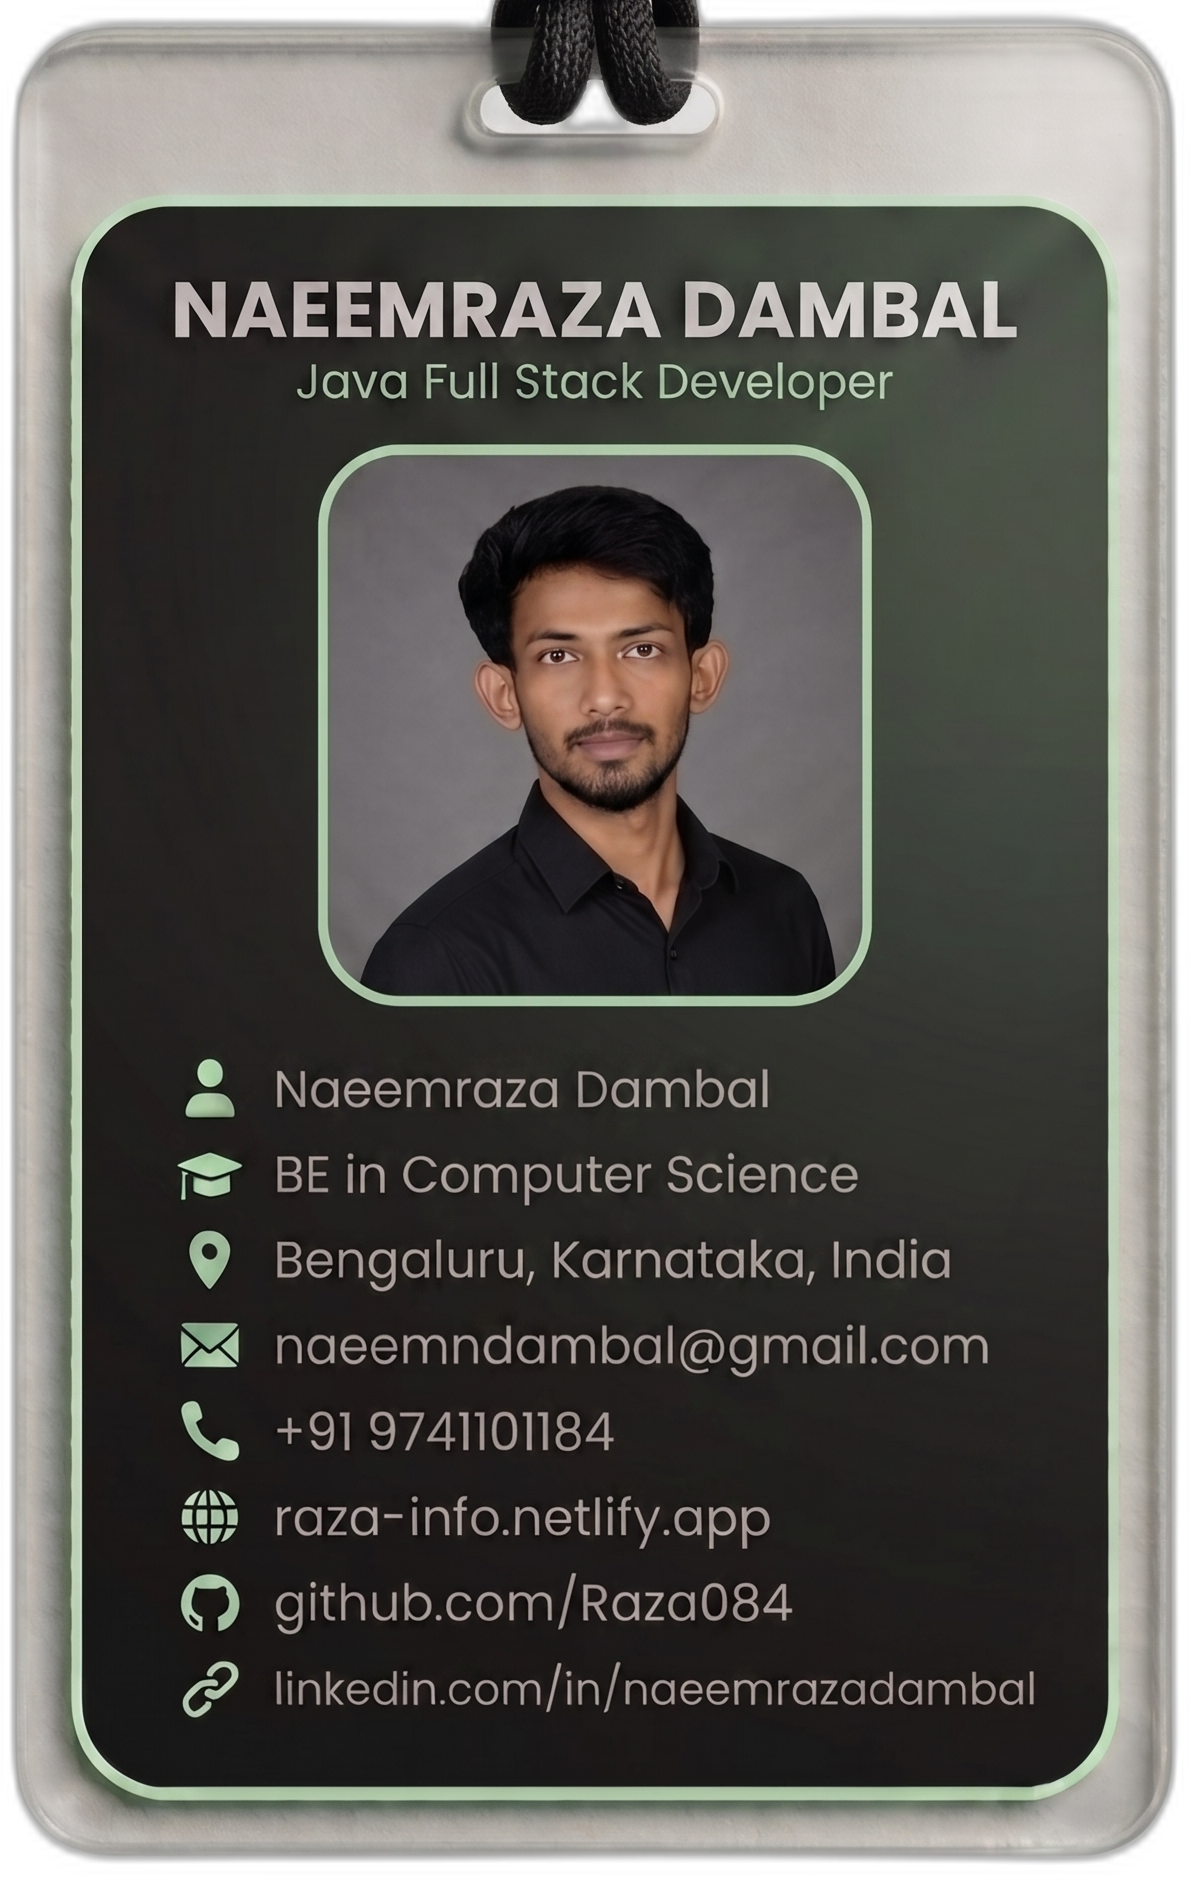
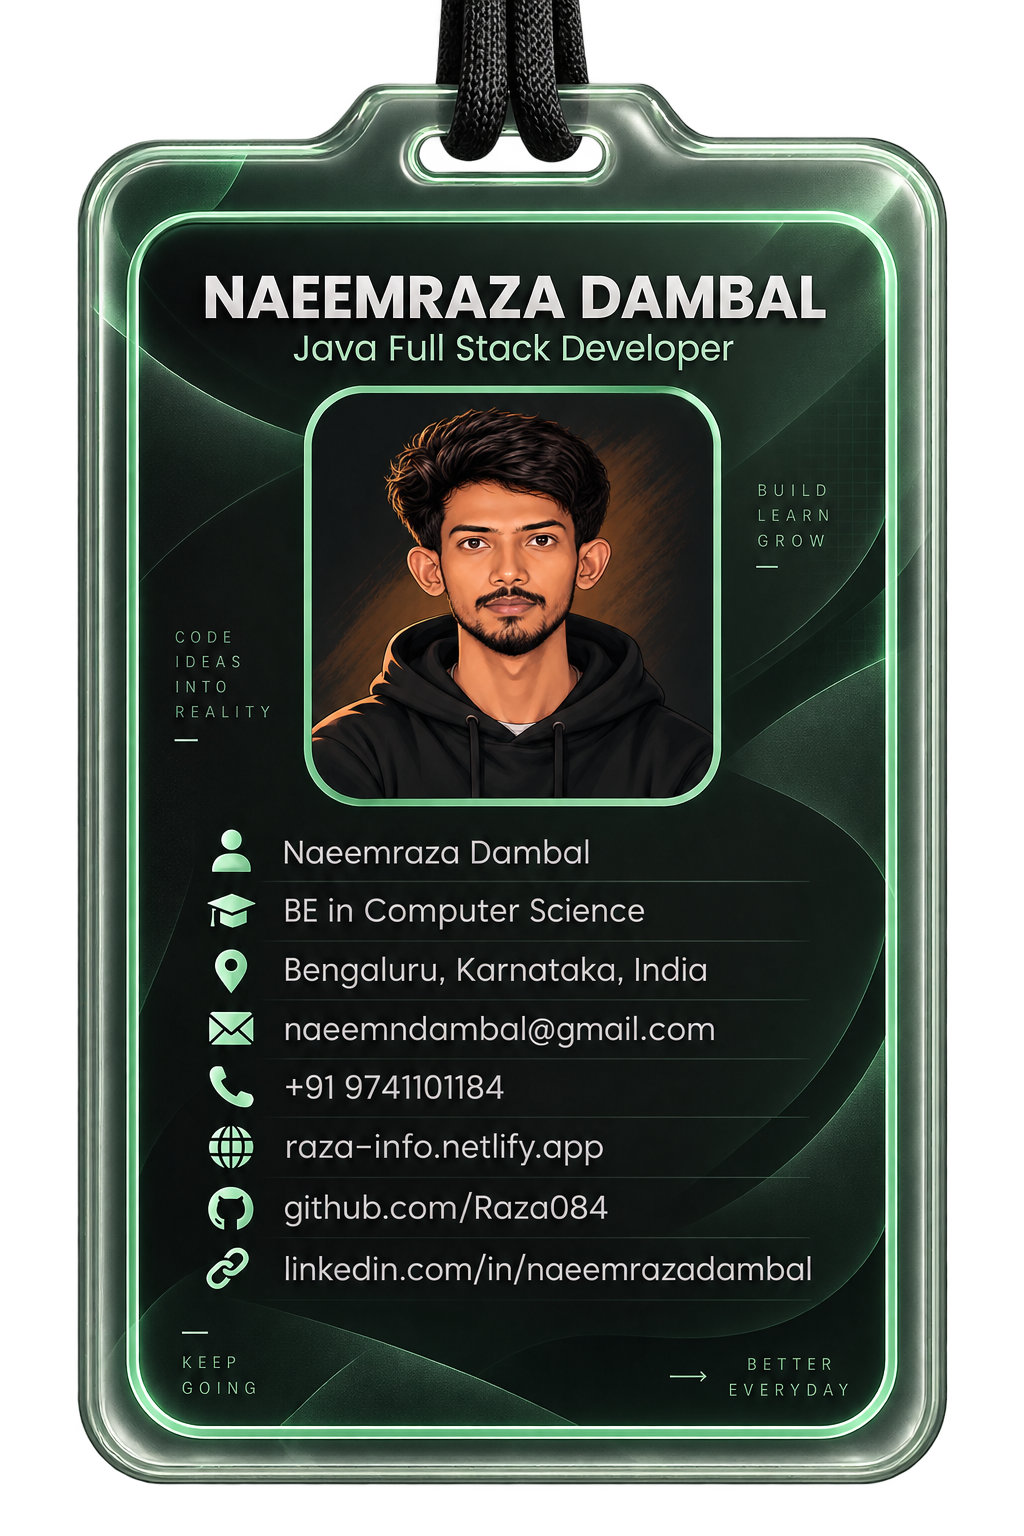
Updated portfolio design and content

diff --git a/css/style.css b/css/style.css
@@ -1,32 +1,34 @@
-@import url('https://fonts.googleapis.com/css2?family=Inter:wght@400;500;600;700&family=Sora:wght@400;500;600;700;800&display=swap');
+@import url("https://fonts.googleapis.com/css2?family=Inter:wght@400;500;600;700&family=Sora:wght@400;500;600;700;800&display=swap");
 
 :root {
   /* Background Colors */
-  --bg-deep: #0A0A0A;
+  --bg-deep: #0a0a0a;
   --bg-charcoal: #111111;
   --bg-section: #171717;
-  --bg-slate: #1C1C1C;
+  --bg-slate: #1c1c1c;
   --bg-card: #131313;
 
   /* Primary Neon Accent Colors */
-  --accent-mint: #4FFFB0;
-  --accent-teal: #39E6C1;
-  --accent-aqua: #5CFFE7;
+  --accent-mint: #4fffb0;
+  --accent-teal: #39e6c1;
+  --accent-aqua: #5cffe7;
 
   /* Borders & Shadows */
   --border-mint: rgba(79, 255, 176, 0.15);
   --border-mint-hover: rgba(79, 255, 176, 0.45);
-  --shadow-mint: 0 0 15px rgba(79, 255, 176, 0.15), 0 0 30px rgba(79, 255, 176, 0.08);
-  --shadow-mint-strong: 0 0 25px rgba(79, 255, 176, 0.35), 0 0 50px rgba(79, 255, 176, 0.18);
+  --shadow-mint:
+    0 0 15px rgba(79, 255, 176, 0.15), 0 0 30px rgba(79, 255, 176, 0.08);
+  --shadow-mint-strong:
+    0 0 25px rgba(79, 255, 176, 0.35), 0 0 50px rgba(79, 255, 176, 0.18);
 
   /* Typography Design Tokens */
-  --font-headings: 'Sora', 'Segoe UI', sans-serif;
-  --font-body: 'Inter', -apple-system, sans-serif;
-  --text-body: #B8B8B8;
+  --font-headings: "Sora", "Segoe UI", sans-serif;
+  --font-body: "Inter", -apple-system, sans-serif;
+  --text-body: #b8b8b8;
 
   /* Section Heading Accent */
-  --accent-yellow: #FFFF8D;
-  --heading-gradient: linear-gradient(110deg, #FFFF8D 40%, #4FFFB0 100%);
+  --accent-yellow: #ffff8d;
+  --heading-gradient: linear-gradient(110deg, #ffff8d 40%, #4fffb0 100%);
 }
 
 /* ================= GLOBAL ================= */
@@ -46,7 +48,7 @@ body {
 
 /* Subtle grain texture — pure texture, no colour tint (6-7% visible) */
 body::before {
-  content: '';
+  content: "";
   position: fixed;
   inset: 0;
   opacity: 0.065;
@@ -62,12 +64,20 @@ html {
   scroll-behavior: smooth;
 }
 
-h1, h2, h3, h4, h5, h6 {
+h1,
+h2,
+h3,
+h4,
+h5,
+h6 {
   font-family: var(--font-headings);
   letter-spacing: -0.02em;
 }
 
-input, select, textarea, button {
+input,
+select,
+textarea,
+button {
   font-family: var(--font-body);
 }
 
@@ -137,13 +147,13 @@ input, select, textarea, button {
 
 /* Subtle background grid pattern */
 .hero::after {
-  content: '';
+  content: "";
   position: absolute;
   top: 0;
   left: 0;
   right: 0;
   bottom: 0;
-  background-image: 
+  background-image:
     linear-gradient(to right, rgba(255, 255, 255, 0.03) 1px, transparent 1px),
     linear-gradient(to bottom, rgba(255, 255, 255, 0.03) 1px, transparent 1px);
   background-size: 50px 50px;
@@ -161,7 +171,12 @@ input, select, textarea, button {
   font-weight: 800;
   font-family: var(--font-headings);
   letter-spacing: -0.03em;
-  background: linear-gradient(135deg, #ffffff 30%, var(--accent-mint) 70%, var(--accent-teal) 100%);
+  background: linear-gradient(
+    135deg,
+    #ffffff 30%,
+    var(--accent-mint) 70%,
+    var(--accent-teal) 100%
+  );
   -webkit-background-clip: text;
   -webkit-text-fill-color: transparent;
   background-clip: text;
@@ -374,7 +389,7 @@ input, select, textarea, button {
 /* ================= BUTTONS ================= */
 .download-btn {
   background: linear-gradient(135deg, var(--accent-mint), var(--accent-teal));
-  color: #0A0A0A;
+  color: #0a0a0a;
   padding: 12px 24px;
   border-radius: 30px;
   text-decoration: none;
@@ -536,11 +551,7 @@ input, select, textarea, button {
   flex: 2;
   min-width: 320px;
   max-width: 1080px;
-  background: linear-gradient(
-    135deg,
-    var(--bg-charcoal),
-    var(--bg-deep)
-  );
+  background: linear-gradient(135deg, var(--bg-charcoal), var(--bg-deep));
   padding: 40px;
   border-radius: 20px;
   border: 1px solid var(--border-mint);
@@ -552,7 +563,7 @@ input, select, textarea, button {
 .about-content h2 {
   font-size: 40px;
   margin-bottom: 20px;
-  background: linear-gradient(110deg, #FFFF8D 40%, #4FFFB0 100%);
+  background: linear-gradient(110deg, #ffff8d 40%, #4fffb0 100%);
   -webkit-background-clip: text;
   -webkit-text-fill-color: transparent;
   background-clip: text;
@@ -625,12 +636,9 @@ input, select, textarea, button {
   background: var(--bg-section);
 }
 
-#projects, #myjourney {
-  background: linear-gradient(
-    135deg,
-    var(--bg-charcoal),
-    var(--bg-deep)
-  );
+#projects,
+#myjourney {
+  background: linear-gradient(135deg, var(--bg-charcoal), var(--bg-deep));
   border: 1px solid var(--border-mint);
   box-shadow: 0 15px 35px rgba(0, 0, 0, 0.4);
   backdrop-filter: blur(10px);
@@ -661,7 +669,7 @@ input, select, textarea, button {
   );
   border-radius: 20px;
   border: 1px solid var(--border-mint);
-  box-shadow: 0 0 20px rgba(79, 255, 176, 0.10);
+  box-shadow: 0 0 20px rgba(79, 255, 176, 0.1);
 }
 
 #skills {
@@ -686,7 +694,7 @@ input, select, textarea, button {
   width: fit-content;
   margin: 0 auto 25px;
   font-size: 22px;
-  background: linear-gradient(110deg, #cbb3f5 50%, #4FFFB0 100%);
+  background: linear-gradient(110deg, #cbb3f5 50%, #4fffb0 100%);
   -webkit-background-clip: text;
   -webkit-text-fill-color: transparent;
   background-clip: text;
@@ -722,7 +730,7 @@ input, select, textarea, button {
 .skills-box-title {
   text-align: center;
   font-size: 22px;
-  background: linear-gradient(110deg, #cbb3f5 50%, #4FFFB0 100%);
+  background: linear-gradient(110deg, #cbb3f5 50%, #4fffb0 100%);
   -webkit-background-clip: text;
   -webkit-text-fill-color: transparent;
   background-clip: text;
@@ -879,7 +887,7 @@ input, select, textarea, button {
   font-family: var(--font-headings);
   font-weight: 700;
   letter-spacing: -0.01em;
-  background: linear-gradient(110deg, #cbb3f5 50%, #4FFFB0 100%);
+  background: linear-gradient(110deg, #cbb3f5 50%, #4fffb0 100%);
   -webkit-background-clip: text;
   -webkit-text-fill-color: transparent;
   background-clip: text;
@@ -939,7 +947,7 @@ button {
   border-radius: 20px;
   border: none;
   background: linear-gradient(135deg, var(--accent-mint), var(--accent-teal));
-  color: #0A0A0A;
+  color: #0a0a0a;
   font-weight: 600;
   cursor: pointer;
 }
@@ -1017,7 +1025,7 @@ button {
   margin-top: 10px;
   padding: 10px 18px;
   background: linear-gradient(135deg, var(--accent-mint), var(--accent-teal));
-  color: #0A0A0A;
+  color: #0a0a0a;
   border-radius: 25px;
   text-decoration: none;
   font-size: 14px;
@@ -1155,7 +1163,7 @@ button {
   width: fit-content;
   font-size: 24px;
   margin-bottom: 30px;
-  background: linear-gradient(110deg, #cbb3f5 50%, #4FFFB0 100%);
+  background: linear-gradient(110deg, #cbb3f5 50%, #4fffb0 100%);
   -webkit-background-clip: text;
   -webkit-text-fill-color: transparent;
   background-clip: text;
@@ -1172,11 +1180,7 @@ button {
 
 /* ================= CONTACT ================= */
 #contact {
-  background: linear-gradient(
-    135deg,
-    var(--bg-charcoal),
-    var(--bg-deep)
-  );
+  background: linear-gradient(135deg, var(--bg-charcoal), var(--bg-deep));
   border: 1px solid var(--border-mint);
   box-shadow: 0 15px 35px rgba(0, 0, 0, 0.4);
   backdrop-filter: blur(10px);
@@ -1211,7 +1215,7 @@ button {
 
 .contact-info h3 {
   width: fit-content;
-  background: linear-gradient(110deg, #cbb3f5 50%, #4FFFB0 100%);
+  background: linear-gradient(110deg, #cbb3f5 50%, #4fffb0 100%);
   -webkit-background-clip: text;
   -webkit-text-fill-color: transparent;
   background-clip: text;
@@ -1344,7 +1348,7 @@ a.contact-detail-card:hover {
   border-radius: 25px;
   border: none;
   background: linear-gradient(135deg, var(--accent-mint), var(--accent-teal));
-  color: #0A0A0A;
+  color: #0a0a0a;
   font-weight: 600;
   cursor: pointer;
   transition: all 0.3s cubic-bezier(0.4, 0, 0.2, 1);
@@ -1413,7 +1417,11 @@ a.contact-detail-card:hover {
   align-items: center;
   justify-content: center;
   gap: 10px;
-  background: linear-gradient(135deg, rgba(79, 255, 176, 0.12), rgba(57, 230, 193, 0.05));
+  background: linear-gradient(
+    135deg,
+    rgba(79, 255, 176, 0.12),
+    rgba(57, 230, 193, 0.05)
+  );
   border: 1px solid rgba(79, 255, 176, 0.25);
   color: var(--accent-mint);
   padding: 14px 28px;
